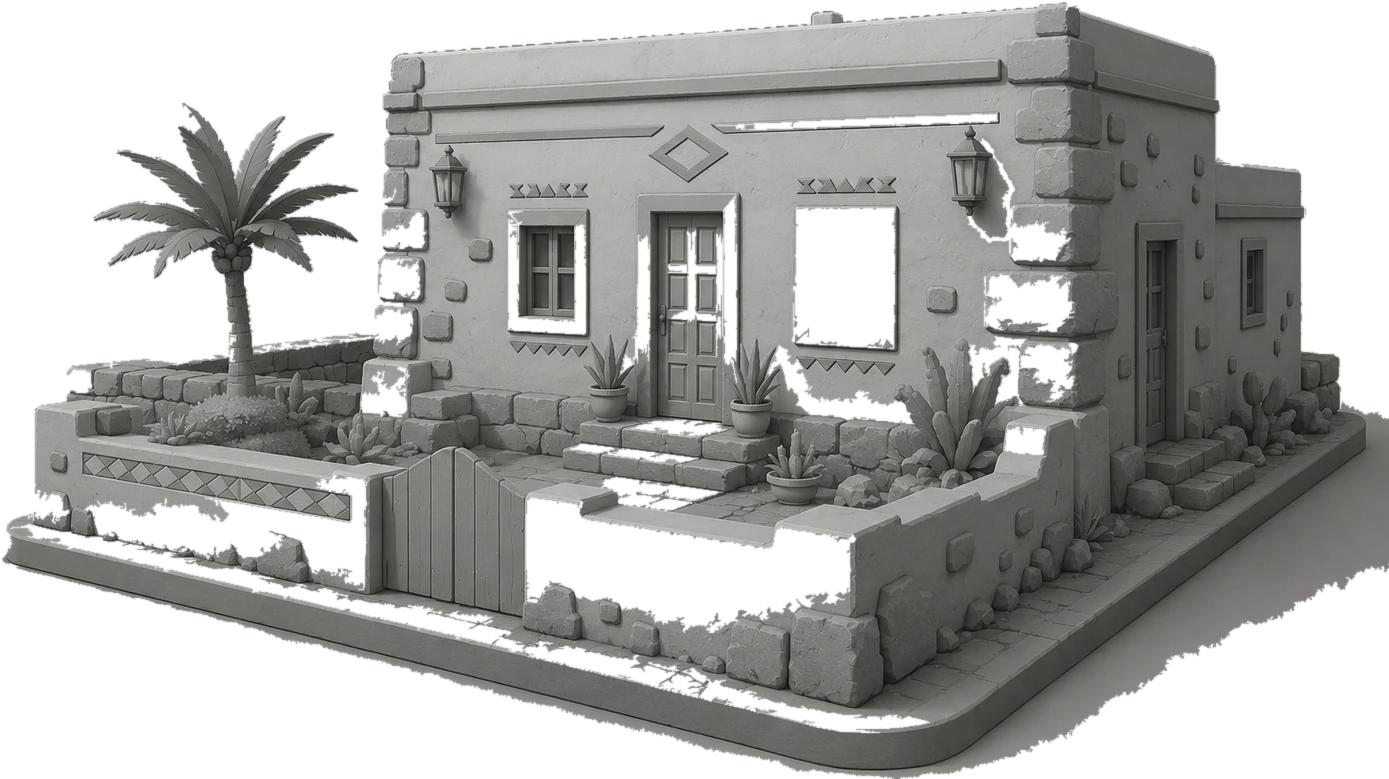
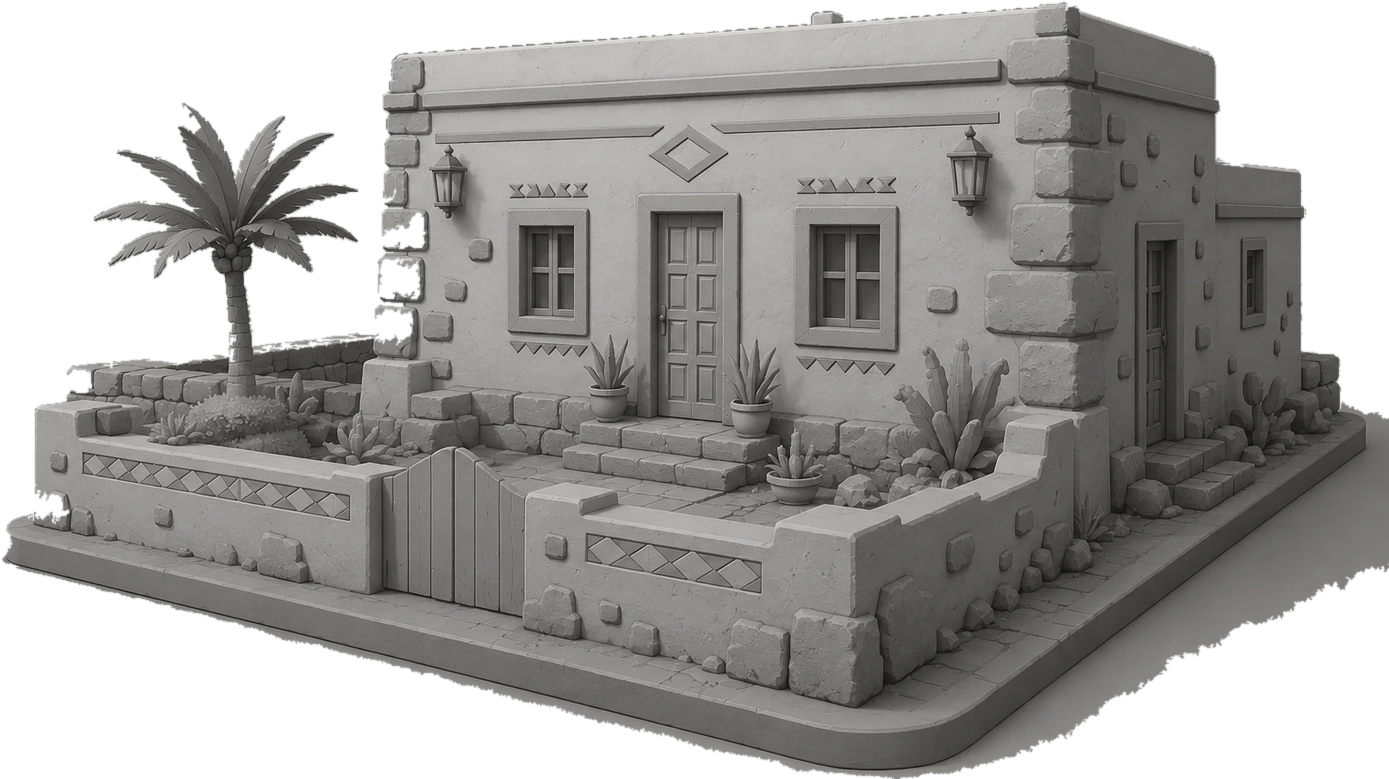
Close the holes in the clay house, now that it is the first frame
Grey model on grey ground is the hard case: the shadowed recesses — the
inside of a window, the shelter of a porch — come out the same value as
the backdrop, so the threshold reads them as outside and punches straight
through. On the site you could see silver through the right-hand window.

Nothing is actually visible through those recesses, so on the clay passes
every enclosed region gets filled. The colour passes keep the tight limit
on purpose: that is what lets the sky show between the palm and the
garden wall, which is a gap you really can see through.

diff --git a/design/casa-nueva/recortar.py b/design/casa-nueva/recortar.py
@@ -204,7 +204,8 @@ def rellenar_huecos(mask: np.ndarray, limite: int = 600) -> np.ndarray:
     return salida
 
 
-def recortar(entrada: Path, salida: Path, umbral: float = 26.0, abrir: bool = True, ancho_max: int = 1400):
+def recortar(entrada: Path, salida: Path, umbral: float = 26.0, abrir: bool = True,
+             hueco: int = 600, ancho_max: int = 1400):
     im = Image.open(entrada).convert("RGB")
     if im.width > ancho_max:
         im = im.resize((ancho_max, round(im.height * ancho_max / im.width)), Image.LANCZOS)
@@ -231,7 +232,7 @@ def recortar(entrada: Path, salida: Path, umbral: float = 26.0, abrir: bool = Tr
     if abrir:
         solido = quitar_lenguas(solido)
     solido = mancha_mayor(solido)
-    solido = rellenar_huecos(solido)
+    solido = rellenar_huecos(solido, hueco)
     """
     ⚠ LA TRANSPARENCIA ES BINARIA, y el borde lo suaviza el desenfoque. Antes
     se conservaba fuera de la mancha hasta un 0,35 de alfa "para el antialias",
@@ -269,5 +270,12 @@ if __name__ == "__main__":
         ("36A4F1E5-6F85-4815-AE18-246A50B64F7D.PNG", "casa-barro.webp", 11.0),
     ]
     for origen, destino, umbral in pares:
+        arcilla = "barro" in destino
+        # ⚠ En las de arcilla el hueco va abierto de par en par. Son gris sobre
+        # gris: los rincones en sombra (el hueco de una ventana, el interior de
+        # un porche) quedan del color del fondo y el umbral los toma por fuera.
+        # Como ahí NO hay nada que se vea de verdad al otro lado, se rellenan
+        # todos. En las de color el límite se queda corto a propósito, que es lo
+        # que deja pasar el cielo entre la palmera y la tapia.
         recortar(BASE / "originales" / origen, BASE / "recortadas" / destino,
-                 umbral, abrir="barro" not in destino)
+                 umbral, abrir=not arcilla, hueco=400000 if arcilla else 600)
